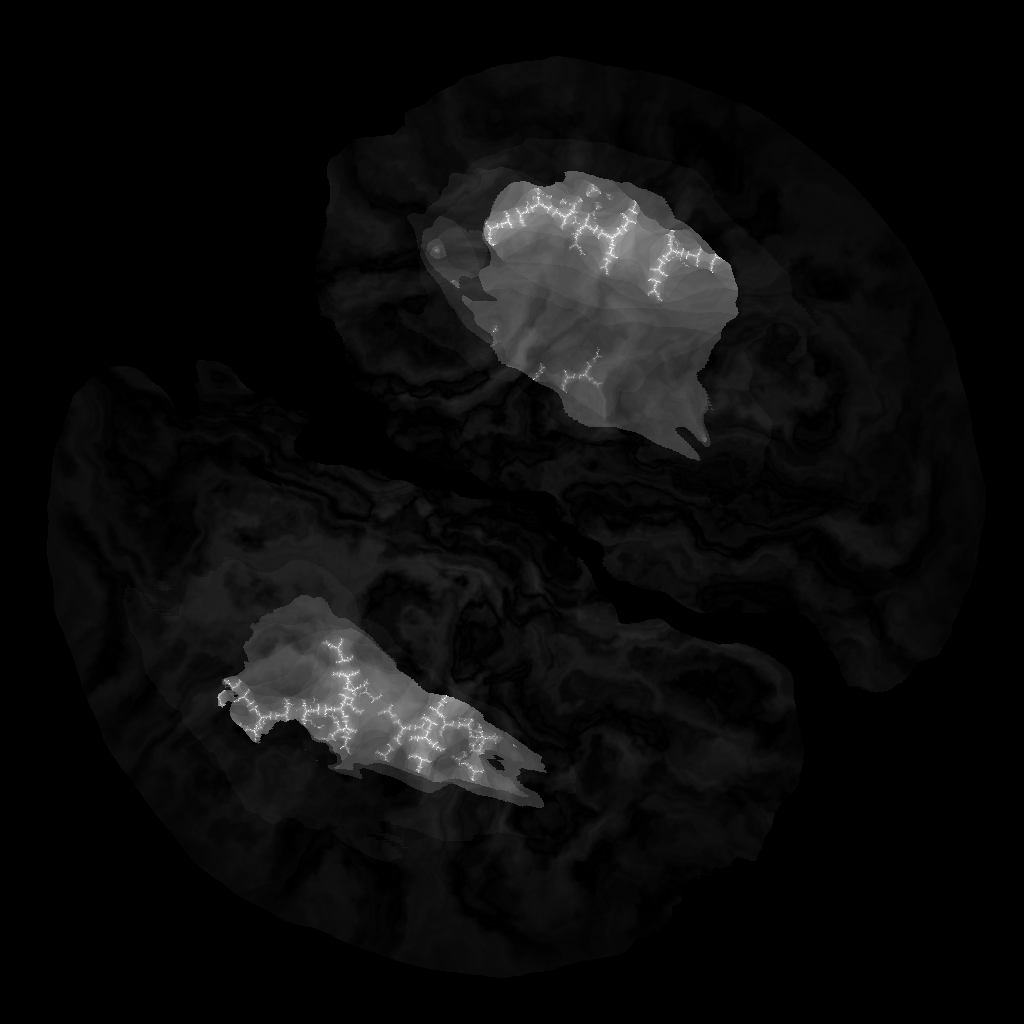
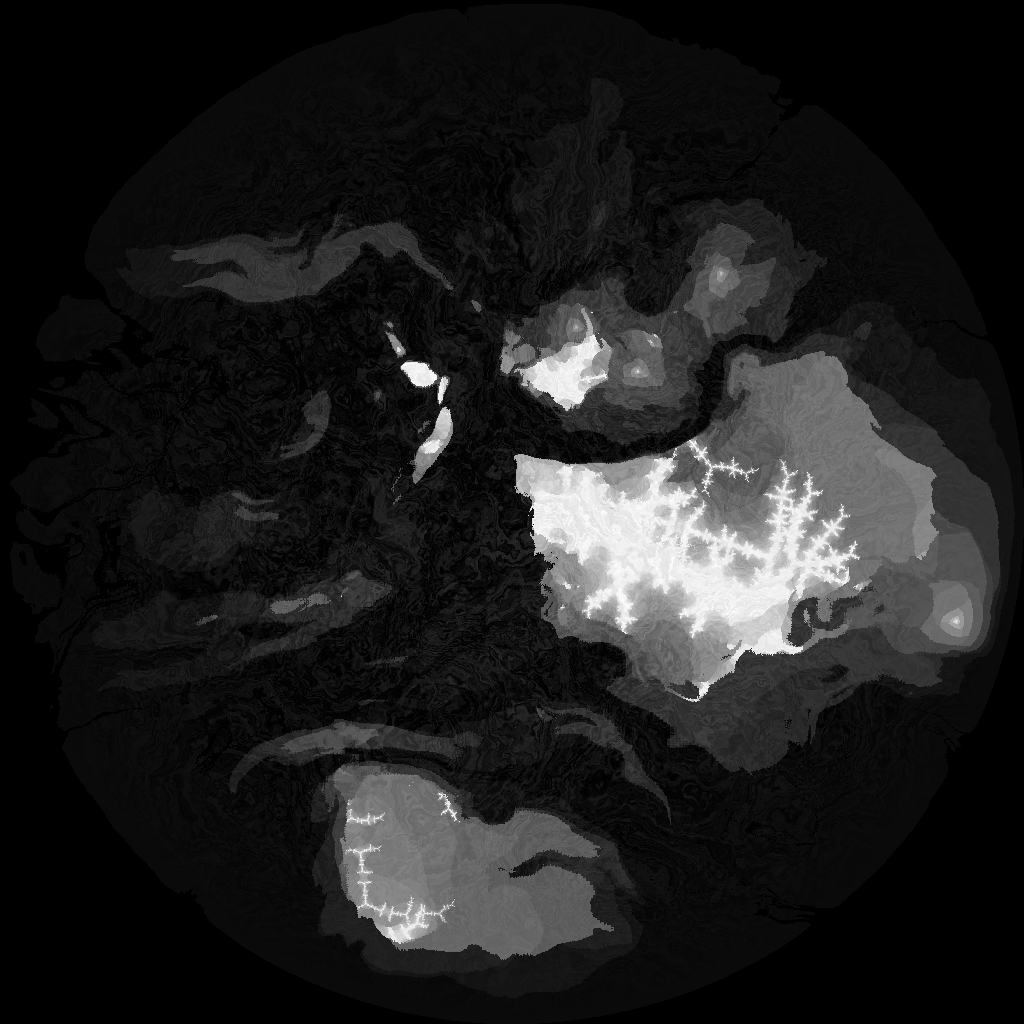
Added normal and gradient support, though unreliable.

diff --git a/main.py b/main.py
@@ -52,15 +52,15 @@ Values for noise control
 island_noise_frequency = 7.0  # Frequency of the base noise used for the island. The higher, the smoother the island is.
 radius_offset = 0.0  # Value by which the radius of the island is reduced.
 
-num_warpings = 1  # This represents the number of warpings we're going to do. 2 is usually enough.
+num_warpings = 2  # This represents the number of warpings we're going to do. 2 is usually enough.
 
-noise_sharpness = 1.5  # value by which the noise is put to the power of. Higher = more cliffs, lower = more flat island
+noise_sharpness = 0.4  # value by which the noise is put to the power of. Higher = more cliffs, lower = more flat island
 
 """
 Values for fractal control
 """
 
-max_it = 32  # Max number of iterations before breaking for the Julia set calculations
+max_it = 24  # Max number of iterations before breaking for the Julia set calculations
 num_frac = 8  # Number of fractals we're going to use
 
 constant_re_low = -0.1  # Lower bound of the random real value of the constant that's being added in the Julia function
@@ -272,6 +272,73 @@ def update_warp(freq=5.0):
 """
 !!!!!!!!!!!!!!!!!!!!!!!!!!!!!!!!!!!!!!!!!!!!!!!
 !!!!!!!!!!!!!!!!!!!!!!!!!!!!!!!!!!!!!!!!!!!!!!!
+!!!!!!!!!!!!! NORMALS & GRADIENT !!!!!!!!!!!!!!
+!!!!!!!!!!!!!!!!!!!!!!!!!!!!!!!!!!!!!!!!!!!!!!!
+!!!!!!!!!!!!!!!!!!!!!!!!!!!!!!!!!!!!!!!!!!!!!!!
+"""
+
+
+def get_face_normal(center, p1, p2):
+    first = p1 - center
+    second = p2 - center
+    return first ** second
+
+
+def create_normals(values):
+    normals = []
+    count = 0
+    print("Creating normals...")
+    for x in range(imgx):
+        for y in range(imgy):
+            normal = Vector(0.0, 0.0, 0.0)
+            center = Vector(x, y, values[count])
+            if 0 < x < imgx - 1 and 0 < y < imgy - 1:
+                normal += get_face_normal(center, Vector(x-1, y-1, values[count - imgy - 1]), Vector(x, y-1, values[count - imgy]))
+                normal += get_face_normal(center, Vector(x, y-1, values[count - imgy]), Vector(x+1, y-1, values[count - imgy + 1]))
+                normal += get_face_normal(center, Vector(x+1, y-1, values[count - imgy + 1]), Vector(x+1, y, values[count + 1]))
+                normal += get_face_normal(center, Vector(x+1, y, values[count + 1]), Vector(x+1, y+1, values[count + imgy + 1]))
+                normal += get_face_normal(center, Vector(x+1, y+1, values[count + imgy + 1]), Vector(x, y+1, values[count + imgy]))
+                normal += get_face_normal(center, Vector(x, y+1, values[count + imgy]), Vector(x-1, y+1, values[count + imgy - 1]))
+                normal += get_face_normal(center, Vector(x-1, y+1, values[count + imgy - 1]), Vector(x-1, y, values[count - 1]))
+                normal += get_face_normal(center, Vector(x-1, y, values[count - 1]), Vector(x-1, y-1, values[count - imgy - 1]))
+            else:
+                normal = Vector(0.0, 0.0, 1.0)
+            normals.append(normal.normalize())
+            count += 1
+    return normals
+
+
+def create_gradient_from_normals(normals):
+    gradients = []
+    print("Creating gradients...")
+    for normal in normals:
+        if normal[2] > 0:
+            gradients.append(Vector(normal[0] / normal[2], normal[1] / normal[2], 0.0))
+        else:
+            gradients.append(Vector(normal[0], normal[1], 0.0).normalize())
+    return gradients
+
+
+def draw_from_vectors(normals, filename="island_normals.png"):
+    """
+    This function draws the given data as a 1d list to the image.
+    """
+    red, green, blue = [list(x) for x in zip(*normals)]
+    red = scale_list(red, 255.0)
+    green = scale_list(green, 255.0)
+    blue = scale_list(blue, 255.0)
+
+    im = ImageDraw.Draw(image)
+    for i, p in enumerate(data_xy):
+        im.point(p, fill=(int(red[i]), int(green[i]), int(blue[i])))
+    del im
+    image.save("images/" + filename, "PNG")
+    print("Saved normals as {0}.".format(filename))
+
+
+"""
+!!!!!!!!!!!!!!!!!!!!!!!!!!!!!!!!!!!!!!!!!!!!!!!
+!!!!!!!!!!!!!!!!!!!!!!!!!!!!!!!!!!!!!!!!!!!!!!!
 !!!!!!!!!!!!!!!! GENERAL CORE !!!!!!!!!!!!!!!!!
 !!!!!!!!!!!!!!!!!!!!!!!!!!!!!!!!!!!!!!!!!!!!!!!
 !!!!!!!!!!!!!!!!!!!!!!!!!!!!!!!!!!!!!!!!!!!!!!!
@@ -283,11 +350,6 @@ def draw(data, filename="island.png"):
     This function draws the given data as a 1d list to the image.
     """
     draw_data = scale_list(data, 255.0)
-
-    data_xy = []
-    for y in range(imgy):
-        for x in range(imgx):
-            data_xy.append((x, y))
 
     im = ImageDraw.Draw(image)
     for i, p in enumerate(data_xy):
@@ -303,6 +365,8 @@ def scale_list(l, max_value):
     This simple helper scales every item of a list by the necessary factor to the maximum value of the list reaches max_value.
     Not really suited as is for list containing negative values.
     """
+    if max(l) <= 0.0:
+        return [0] * len(l)
     factor = max_value / max(l)
     return [d * factor for d in l]
 
@@ -349,6 +413,11 @@ origin = random.uniform(-10000, 10000)
 simplex_offsets = []
 image = Image.new("RGB", (imgx, imgy))
 
+data_xy = []
+for y in range(imgy):
+    for x in range(imgx):
+        data_xy.append((x, y))
+
 
 # We first make a domain warped noise image that we (badly) scale up to a (-1, 1) range.
 data = update_warp(freq=island_noise_frequency)
@@ -361,24 +430,18 @@ data = scale_list(data, 255.0)
 # draw(update_julia(), filename="julia.png")  # if we want to take a look at some fractals without noise
 
 data = add_salt(data)
-
-# normals = create_normals(data)
-
-# our final changes to the data, and final draw
 draw(data)
+
+normals = create_normals(data)
+draw_from_vectors(normals)
+gradients = create_gradient_from_normals(normals)
+draw_from_vectors(gradients, filename="island_gradients.png")
 
 
 
 """
 Upcoming stuff
 """
-
-def create_normals(values):
-    normal = Vector(0.0)
-    for y in range(imgy):
-        for x in range(imgx):
-            if 0 < x < imgx and 0 < y < imgy:
-                pass
 
 
 """

diff --git a/vector.py b/vector.py
@@ -98,6 +98,20 @@ class Vector(object):
         """
         return sum(a * b for a, b in zip(self, other))
 
+    def cross(self, other):
+        assert len(self) == len(other) == 3
+        c = [self[1] * other[2] - self[2] * other[1],
+             self[2] * other[0] - self[0] * other[2],
+             self[0] * other[1] - self[1] * other[0]]
+
+        return Vector(*c)
+
+    def __pow__(self, other):
+        if isinstance(other, Vector):
+            return self.cross(other)
+        else:
+            raise TypeError("Right handside type of cross product must be a vector.")
+
     def __mul__(self, other):
         """ Returns the dot product of self and other if multiplied
             by another Vector.  If multiplied by an int or float,

diff --git a/README.md b/README.md
@@ -9,15 +9,15 @@ To launch the code, simply `python main.py`
 
 Here's what it looks like :
 
-Latest image : ![island](images/island)
+Latest image : ![island](images/island.png)
 
 These are with 2 warpings :
 
-![island1](images/island1)
+![island1](images/island1.png)
 
-![island2](images/island2)
+![island2](images/island2.png)
 
-![island3](images/island3)
+![island3](images/island3.png)
 
 
 ## Dependencies
@@ -62,6 +62,11 @@ Let's take an example : for `z = 0 + 1j`, instead of iterating over and over wit
 This code outputs a 1024x1024 PNG image. It's a heightmap, so it's black and white.
 The code is fully commented for you to understand (I hope) what does what.
 Also, I tried to isolate the meaningful part so that you can easily play with it and change it accordingly to your needs.
+
+Now the code can also output you the normal map and a gradient map, though the results are unreliable.
+You better not use these maps "as is" since some colors might be missing, or be clamped depending of they're scaling.
+Instead, use it as raw values in your code if you need it. 
+Or correct the color output if you need the maps.
 
 ## So is it good code ?
 
